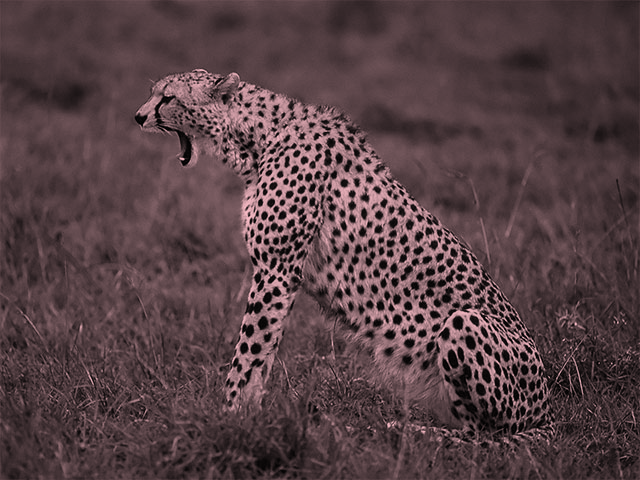
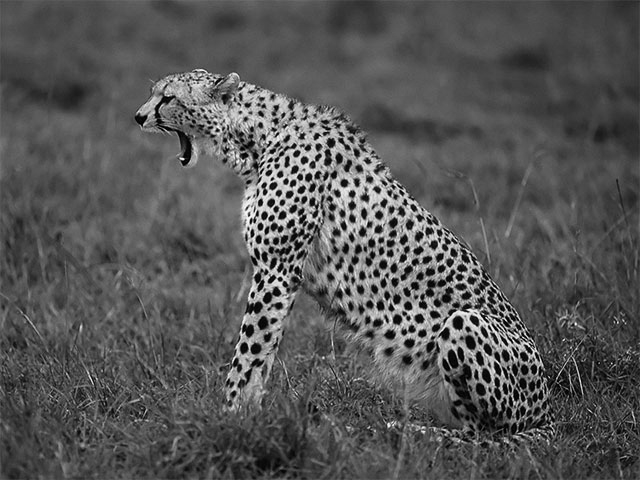
Update docs

diff --git a/docs/04_Drawing_basics/C01_Images.md b/docs/04_Drawing_basics/C01_Images.md
@@ -135,19 +135,19 @@ program {
 
 [Link to the full example](https://github.com/openrndr/openrndr-examples/blob/master/src/main/kotlin/examples/04_Drawing_basics/C01_Images005.kt)
 
-### Combining color transforms
+### Concatenating color transforms
 Color transforms can be combined using the multiplication operator. This is called transform concatenation.
 Keep in mind that transform concatenations are read from right to left, and in the following example we first
 apply the `grayscale` transform and then the `tint` transform.
 
-<img src="media/image-006.png"/>
+<img src="media/image-007.png"/>
 
 ```kotlin
 program {
     val image = loadImage("data/cheeta.jpg")
     
     extend {
-    
+        // -- here we concatenate the transforms using the multiplication operator.
         drawer.drawStyle.colorMatrix = tint(ColorRGBa.PINK) * grayscale()
         drawer.image(image)
     }
